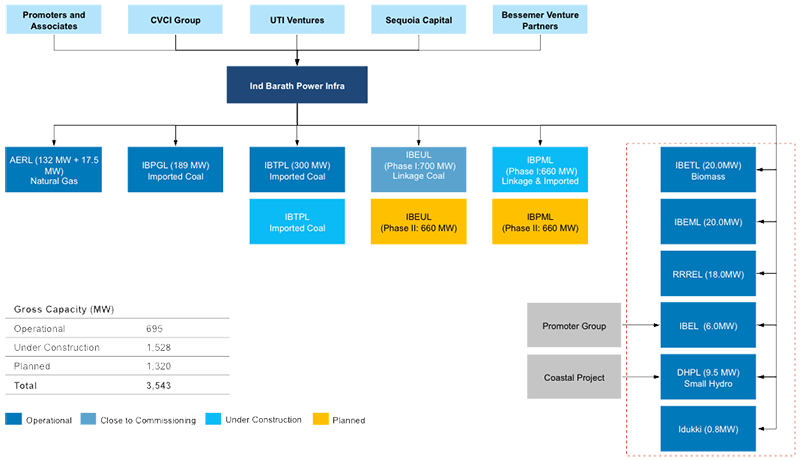
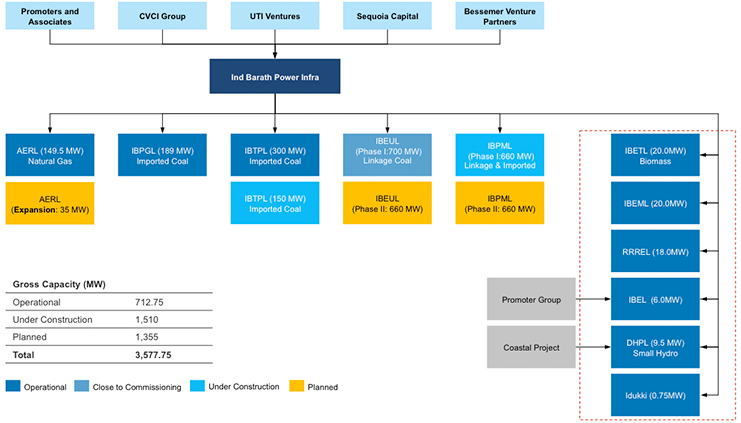
ppt update

diff --git a/IBPIL SITE/corporatepresentation.html b/IBPIL SITE/corporatepresentation.html
@@ -193,7 +193,7 @@
     <!-- The content of this hgroup is replaced programmatically through the slide_config.json. -->
     <hgroup class="auto-fadein">
       <h1>Portfolio Overview</h1>
-      <p>Diversified portfolio of 695 MW operational, 718 MW about to be commissioned, 810 MW under construction</br> and 1,320 MW under development</p>
+      <p>Diversified portfolio of 712.75 MW operational, 700 MW about to be commissioned, 810 MW under construction</br> and 1,355 MW under development</p>
 
     </hgroup>
     <article class="block">
